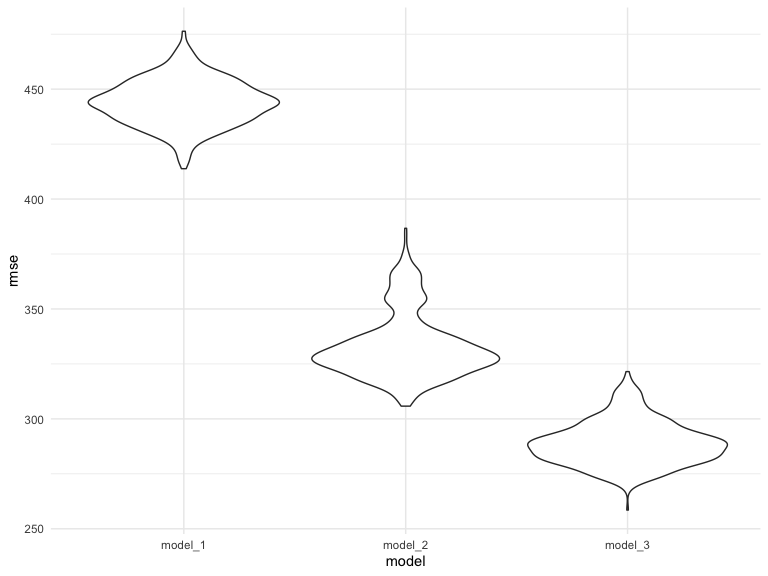
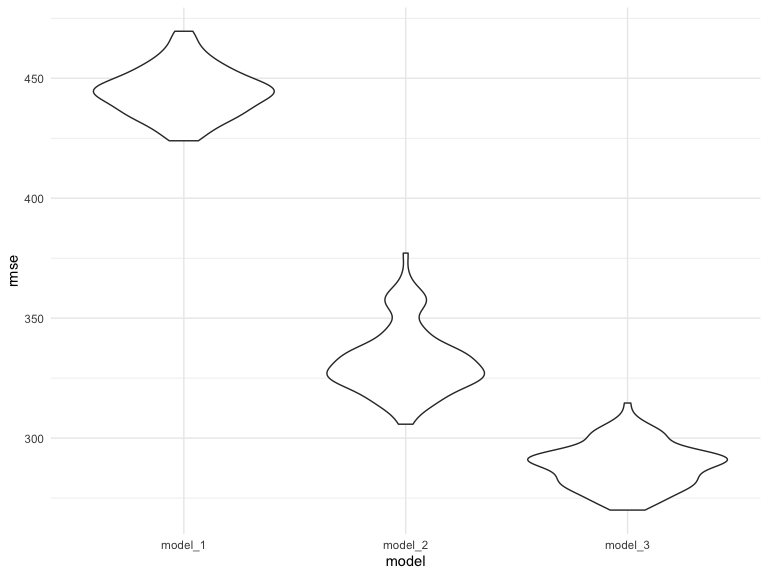
problem 3 - final commit

diff --git a/p8105_hw6_yz3736.md b/p8105_hw6_yz3736.md
@@ -199,10 +199,8 @@ length, sex, and all interactions (including the three-way interaction)
 between these.
 
 ``` r
-set.seed(1)
-
 cv_df =
-  crossv_mc(birthweight_df,500) %>% 
+  crossv_mc(birthweight_df,100) %>% 
   mutate(
     train = map(train, as_tibble),
     test = map(test, as_tibble))
@@ -234,3 +232,111 @@ cv_df %>%
 In terms of the cross-validated prediction error, Model 3, which used
 head circumference, length, sex, and all interactions, is the best
 model. (the smaller the RMSE, the better the model)
+
+## Problem 3
+
+Import the 2017 Central Park weather data.
+
+``` r
+weather_df = 
+  rnoaa::meteo_pull_monitors(
+    c("USW00094728"),
+    var = c("PRCP", "TMIN", "TMAX"), 
+    date_min = "2017-01-01",
+    date_max = "2017-12-31") %>%
+  mutate(
+    name = recode(id, USW00094728 = "CentralPark_NY"),
+    tmin = tmin / 10,
+    tmax = tmax / 10) %>%
+  select(name, id, everything())
+```
+
+Use 5000 bootstrap samples and, for each bootstrap sample, produce
+estimates of R-squared and log product of beta coefficients.
+
+``` r
+boot_results =
+  weather_df %>% 
+  bootstrap(5000, id = "strap_number") %>% 
+  mutate(
+    models = map(.x = strap, ~lm(tmax ~ tmin, data = .x)), 
+    r_squared = map(models, broom::glance),
+    coefficient = map(models, broom::tidy)
+  ) %>% 
+  select(strap_number, r_squared, coefficient) %>% 
+  unnest(r_squared) %>% 
+  select(strap_number, r.squared, coefficient) %>% 
+  unnest(coefficient) %>% 
+  janitor::clean_names() %>% 
+  select(strap_number:estimate) %>% 
+  pivot_wider(
+    everything(),
+    names_from = term, 
+    values_from = estimate) %>% 
+  rename(
+    beta_0 = "(Intercept)",
+    beta_1 = "tmin"
+  ) %>% 
+  mutate(log_product_coef = log(beta_0 * beta_1))
+```
+
+Plot the distribution of estimates.
+
+``` r
+boot_results %>% 
+  ggplot(aes(x = r_squared)) +
+  geom_density() +
+  labs(
+    title = "Distribution of estimate of R-squared",
+    x = "R-squared",
+    y = "Density"
+  ) 
+```
+
+<img src="p8105_hw6_yz3736_files/figure-gfm/unnamed-chunk-10-1.png" width="90%" />
+
+``` r
+boot_results %>% 
+  ggplot(aes(x = log_product_coef)) +
+  geom_density() +
+  labs(
+    title = "Distribution of estimate of log product of beta coefficients",
+    x = "Log product of beta coefficients",
+    y = "Density"
+  ) 
+```
+
+<img src="p8105_hw6_yz3736_files/figure-gfm/unnamed-chunk-10-2.png" width="90%" />
+
+The distribution of estimate of R-squared is approximately normal
+(slightly left-skewed), with the peak around 0.91. The distribution of
+estimate of log product of beta coefficients is approximately normal,
+with the peak around 2.02.
+
+Construct bootstrap CI.
+
+``` r
+boot_results %>% 
+  summarize(
+    r_squared_ci_lower = quantile(r_squared, 0.025),
+    r_squared_ci_upper = quantile(r_squared, 0.975)
+  ) %>% 
+  knitr::kable()
+```
+
+| r\_squared\_ci\_lower | r\_squared\_ci\_upper |
+| --------------------: | --------------------: |
+|             0.8936977 |             0.9274807 |
+
+``` r
+boot_results %>% 
+  summarize(
+    log_product_coef_ci_lower = quantile(log_product_coef, 0.025),
+    log_product_coef_ci_upper = quantile(log_product_coef, 0.975)
+  )  %>% 
+  knitr::kable()
+```
+
+| log\_product\_coef\_ci\_lower | log\_product\_coef\_ci\_upper |
+| ----------------------------: | ----------------------------: |
+|                      1.966942 |                      2.058528 |
